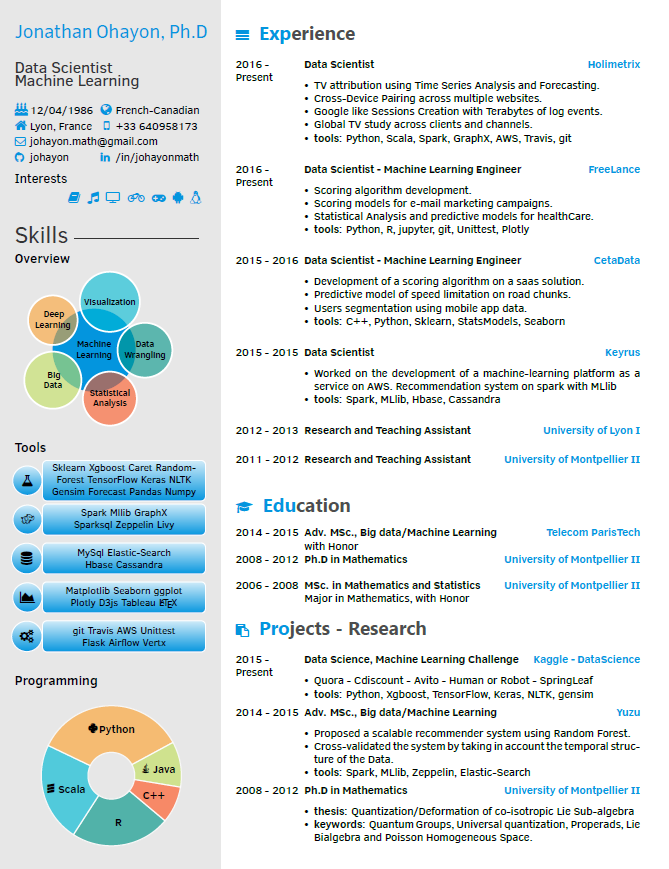
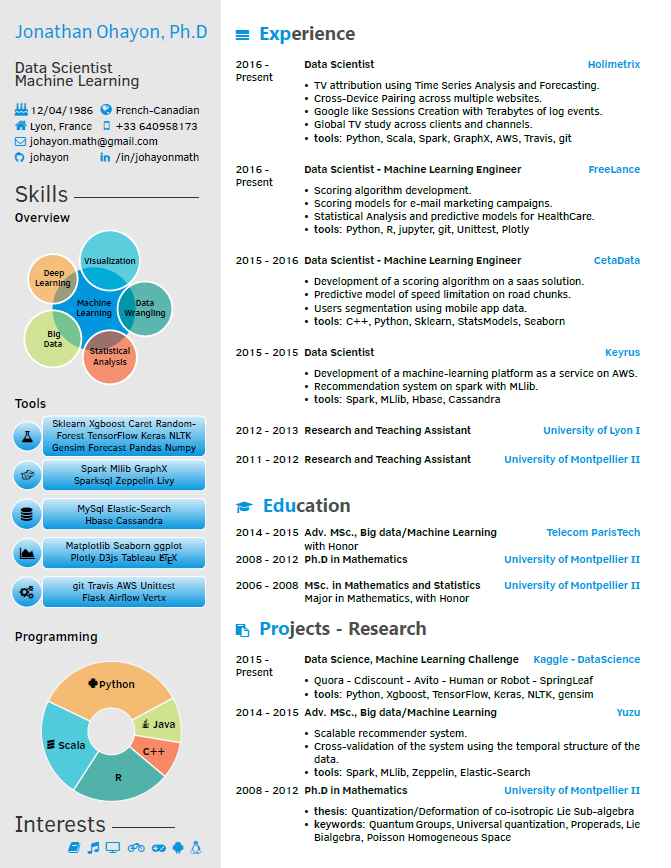
small change and typos corrected

diff --git a/templatefr.tex b/templatefr.tex
@@ -48,10 +48,9 @@
 \smartdiagramset{set color list = {pblue,pblue,pblue,pblue,pblue,pblue,pblue}}
 \smartdiagram[descriptive diagram]{
 {\large \faFlask,{Sklearn Xgboost Caret RandomForest TensorFlow Keras NLTK Gensim Forecast Pandas Numpy}},
-{\large \mfHadoop, {Spark Mllib GraphX Sparksql Zeppelin Livy}}, 
+{\large \mfHadoop, {Spark MLlib GraphX Sparksql Zeppelin Livy}}, 
 {\large \faDatabase,{MySql Elastic-Search Hbase Cassandra}}, {\large \faAreaChart,{Matplotlib Seaborn ggplot Plotly D3js Tableau \LaTeX}},
 {\large \faCogs,{git Travis AWS Unittest Flask Airflow Vertx}}}
-
 }
 
 \programmings{23/materialteal/\textbf{\textbf{\textsf{R}}},  23/materialcyan/\textbf{\mfScala Scala}, 35/orange/\textbf{\ \mfPython Python}, 10.5/green/\textbf{\ \mfJavaBold Java}, 8.5/materialorange/\textbf{C++}}{2.25}{0.75}
@@ -91,30 +90,30 @@
 \begin{twenty} % Environment for a list with descriptions
 \twentyitem
     	{2016 -}
-		{Present}
+		{Pr\'esent}
         {Data Scientist}
         {\href{http://www.holimetrix.ccom/}{Holimetrix}}
         {}
         {
 				\begin{itemize}
-				\item attribution t\'el\'e \`a partir des traffics clients. 
+				\item Attribution t\'el\'e \`a partir des traffics clients. 
 				\item Cross-Device Pairing \`a travers tous les sites clients.
 				\item Cr\'eation des sessions utilisateurs sur des T\'era de logs.
-				\item \'Etude de l'impacte de la t\'el\'e sur les sites.
+				\item \'Etude de l'impact de la t\'el\'e sur les sites.
 				\item \textbf{outils}: Python, Scala, Spark, GraphX, AWS, Travis, git
 				\end{itemize}} \\
 				
 	\twentyitem
     	{2016 -}
-		{Present}
+		{Pr\'esent}
         {Data Scientist - Machine Learning Engineer}
         {FreeLance}
         {}
         {\begin{itemize}
-        \item D\'eveloppement d'algorithme de scoring.
+        \item D\'eveloppement d'algorithmes de scoring.
         \item Mod\`eles de scoring pour des campagnes d'emails. 
-        \item Analyse statistique et modeles predictifs dans la sant\'e. 
-				\item \textbf{tools}: Python, R, jupyter, git, Unittest, Plotly
+        \item Analyses statistiques et mod\`eles pr\'edictifs dans la sant\'e. 
+				\item \textbf{outils}: Python, R, jupyter, git, Unittest, Plotly
     \end{itemize}}\\
 		
     \twentyitem
@@ -125,9 +124,9 @@
         {}
         {\begin{itemize}
 				\item D\'eveloppement d'un mod\`ele de scoring en mode saas.
-        \item Mod\`ele pr\'edictif des limitation de vitesse sur des tron\c cons de route.
+        \item Mod\`ele pr\'edictif des limitations de vitesse sur les routes.
 				\item Segmentation des utilisateurs pour une app mobile.
-				\item \textbf{tools}: C++, Python, Sklearn, StatsModels, Seaborn
+				\item \textbf{outils}: C++, Python, Sklearn, StatsModels, Seaborn
     \end{itemize}} \\
 		
      \twentyitem
@@ -139,8 +138,8 @@
         {
         \begin{itemize}
         \item D\'eveloppement d'une plateforme de machine learning sur AWS. 
-				\item Syst\`eme de recommandation pour les sites de e-commerce.
-				\item \textbf{tools}: Spark, MLlib, Hbase, Cassandra
+				\item Syst\`eme de recommandations pour les sites de e-commerce.
+				\item \textbf{outils}: Spark, MLlib, Hbase, Cassandra
     \end{itemize} }\\
 		
 	\twentyitem
@@ -169,7 +168,7 @@
 %	 EDUCATION
 %----------------------------------------------------------------------------------------
 \vspace{-0.5cm}
-\section{\'Education}{\faGraduationCap}
+\section{Formation}{\faGraduationCap}
 
 \begin{twenty} % Environment for a list with descriptions
 	\twentyitemshorttest
@@ -194,17 +193,17 @@
 	%\twentyitem{<dates>}{<title>}{<organization>}{<location>}{<description>}
 \end{twenty}
 
-\section{Projets - Recherhce}{\faClipboard}
+\section{Projets - Recherche}{\faClipboard}
 \begin{twenty}
 	\twentyitem
 			{2015 - }
-			{Present}
+			{Pr\'esent}
 			{Data Science, Machine Learning Challenge}
 			{Kaggle - DataScience}
 			{}
 			{\begin{itemize}
 			 \item Quora - Cdiscount - Avito - Human or Robot - SpringLeaf
-			 \item \textbf{tools}: Python, Xgboost, TensorFlow, Keras, NLTK, gensim
+			 \item \textbf{outils}: Python, Xgboost, TensorFlow, Keras, NLTK, gensim
 			\end{itemize}}
 	\twentyitem
     	{2014 - 2015}
@@ -213,7 +212,7 @@
         {Yuzu}
         {}
         {\begin{itemize}
-        \item \'Elaboration d'un Syst\`eme de recommandation scalable.
+        \item \'Elaboration d'un syst\`eme scalable de recommandations.
         \item Cross-validation du syst\`eme en prenant en compte la structure temporelle des donn\'ees.
         \item \textbf{tools}: Spark, MLlib, Zeppelin, Elastic-Search
 		\end{itemize}}
@@ -224,8 +223,8 @@
 			{\href{http://www.umontpellier.fr/}{University of Montpellier II}}
 			{}
 			{\begin{itemize}
-			\item \textbf{thesis}: Quantization/Deformation de sous-alg\`ebre de Lie coisotrope.
-			\item \textbf{keywords}: Quantum Groups, Universal quantization, Properads, Lie Bialgebra, Poisson Homogeneous Space.
+			\item \textbf{th\`ese}: Quantization/Deformation de sous-alg\`ebres de Lie coisotropes.
+			\item \textbf{mots cl\'es}: Quantum Groups, Universal quantization, Properads, Lie Bialgebra, Poisson Homogeneous Space.
 			\end{itemize}}
 \end{twenty}
 \end{document} 

diff --git a/template.tex b/template.tex
@@ -110,7 +110,7 @@
         {\begin{itemize}
         \item Scoring algorithm development.
         \item Scoring models for e-mail marketing campaigns. 
-        \item Statistical Analysis and predictive models for healthCare. 
+        \item Statistical Analysis and predictive models for HealthCare. 
 				\item \textbf{tools}: Python, R, jupyter, git, Unittest, Plotly
     \end{itemize}}\\
 		
@@ -135,7 +135,8 @@
         {}
         {
         \begin{itemize}
-        \item Worked on the development of a machine-learning platform as a service on AWS. Recommendation system on spark with MLlib
+        \item Development of a machine-learning platform as a service on AWS. 
+				\item Recommendation system on spark with MLlib.
 				\item \textbf{tools}: Spark, MLlib, Hbase, Cassandra
     \end{itemize} }\\
 		
@@ -209,8 +210,8 @@
         {Yuzu}
         {}
         {\begin{itemize}
-        \item Proposed a scalable recommender system using Random Forest.
-        \item Cross-validated the system by taking in account the temporal structure of the Data.
+        \item Scalable recommender system.
+        \item Cross-validation of the system using the temporal structure of the data.
         \item \textbf{tools}: Spark, MLlib, Zeppelin, Elastic-Search
 		\end{itemize}}
 	\twentyitem
@@ -221,7 +222,7 @@
 			{}
 			{\begin{itemize}
 			\item \textbf{thesis}: Quantization/Deformation of co-isotropic Lie Sub-algebra
-			\item \textbf{keywords}: Quantum Groups, Universal quantization, Properads, Lie Bialgebra and Poisson Homogeneous Space.
+			\item \textbf{keywords}: Quantum Groups, Universal quantization, Properads, Lie Bialgebra, Poisson Homogeneous Space
 			\end{itemize}}
 \end{twenty}
 \end{document} 
